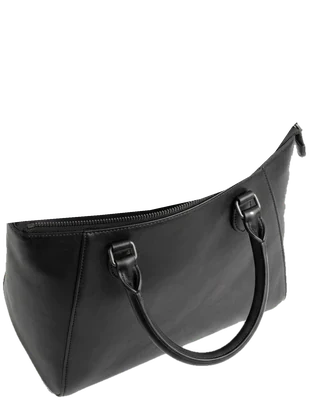
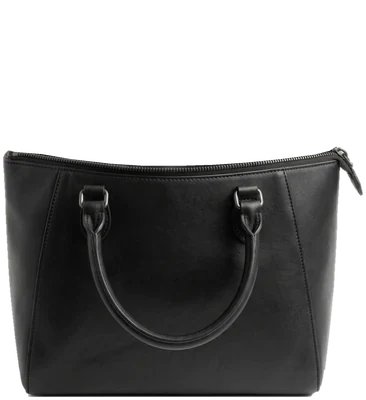
랜딩 가방을 정면에서 본 열린 검정 토트로 — 뒤 겹(통째, 뒤 손잡이 고리 안 구멍 · 바닥 그림자 뺌, 회색 안감은 남김) · 앞 겹(앞 지퍼선 아래 앞판 · 앞 손잡이 · 지퍼 손잡이). 그림 366x400, 입구 자리 mouthX 0.47 · mouthY 0.39(안감 가운데), 가방 너비 폰 128px · 웹 192px 그대로. 움직임 값은 그대로

diff --git a/lib/landing/scene.ts b/lib/landing/scene.ts
@@ -14,22 +14,23 @@ export type LandingBag = LandingPicture & {
   // 그림의 픽셀 크기 — 가방 자리의 가로세로 비율로 쓴다
   width: number;
   height: number;
-  // 아이템이 나오는 자리(그림 왼쪽 · 위에서부터의 비율). 열린 입구 안 안감 위, 앞 지퍼 입술 조금 위라 아이템 아랫부분이 입술 뒤에 가려진 채 솟아오른다
+  // 아이템이 나오는 자리(그림 왼쪽 · 위에서부터의 비율). 열린 입구 안 안감 가운데, 앞 지퍼선 조금 위라 아이템 아랫부분이 지퍼선 뒤에 가려진 채 솟아오른다
   mouthX: number;
   mouthY: number;
-  // 앞 겹 그림 — 같은 크기의 가방 그림에서 앞 지퍼 입술 아래(앞벽 · 앞 손잡이)만 남긴 것. 아이템 위에 덮어 "안에서 나오는" 느낌을 낸다
+  // 앞 겹 그림 — 같은 크기의 가방 그림에서 앞 지퍼선 아래(앞판 · 앞 손잡이)만 남긴 것. 아이템 위에 덮어 "안에서 나오는" 느낌을 낸다
   frontSrc: string;
 };
 
-// 가방 — 아이템이 튀어나오는 곳 (위에서 내려다본 열린 검정 토트백)
+// 가방 — 아이템이 튀어나오는 곳 (정면에서 살짝 위로 본 열린 검정 토트백. 입구 안 회색 안감 위에서 나온다)
+// mouthX 가 0.5 보다 조금 작은 건 오른쪽에 삐져나온 지퍼 손잡이만큼 그림이 오른쪽으로 넓어서 — 가방 몸통 가운데에 맞췄다
 export const LANDING_BAG: LandingBag = {
   src: "/landing/bag.webp",
   frontSrc: "/landing/bag-front.webp",
-  alt: "열린 가죽 가방",
-  width: 309,
+  alt: "열린 검정 가죽 가방",
+  width: 366,
   height: 400,
-  mouthX: 0.45,
-  mouthY: 0.46,
+  mouthX: 0.47,
+  mouthY: 0.39,
 };
 
 // 가방에서 나와 칸에 꽂히는 아이템들. 이 순서대로 튀어나와 왼쪽 칸부터 채운다.

diff --git a/components/landing/BagScene.tsx b/components/landing/BagScene.tsx
@@ -159,8 +159,8 @@ export function BagScene() {
         ))}
       </ul>
 
-      {/* 가방은 두 겹 — 통째 그림(뒤 겹)은 칸들 뒤, 앞 지퍼 입술 아래만 남긴 그림(앞 겹)은 칸들 앞.
-          그래서 아이템이 열린 입구 안 안감 위에서 작게 나타나 앞 입술 뒤에서 솟아오른다.
+      {/* 가방은 두 겹 — 통째 그림(뒤 겹)은 칸들 뒤, 앞 지퍼선 아래만 남긴 그림(앞 겹)은 칸들 앞.
+          그래서 아이템이 열린 입구 안 안감 위에서 작게 나타나 앞 지퍼선 뒤에서 솟아오른다.
           이 감싸는 div 에는 z-index · transform 을 주지 않는다 (두 겹이 칸들 앞뒤로 갈라져 쌓이도록) */}
       <div style={{ aspectRatio: `${LANDING_BAG.width} / ${LANDING_BAG.height}` }} className="relative mt-12 w-32 lg:mt-16 lg:w-48">
         <div ref={bagRef} className="absolute inset-0 z-0 origin-bottom">
